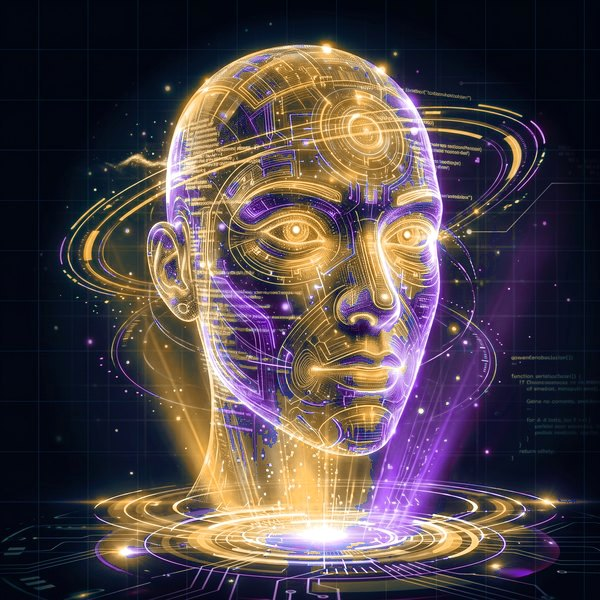
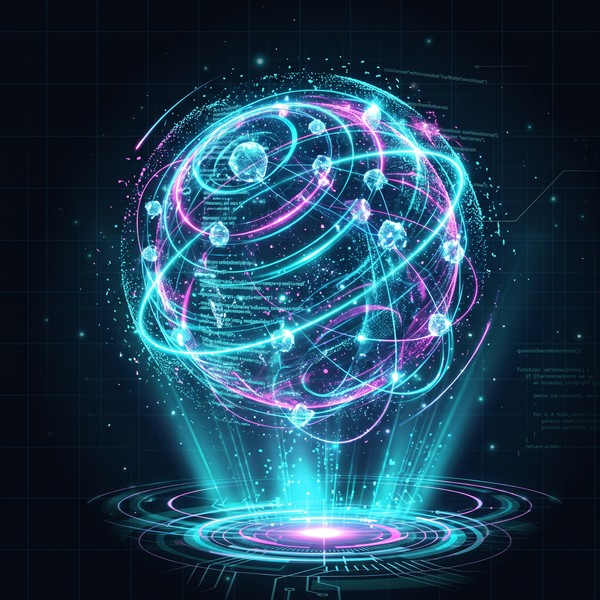
1.32.1: agentes em primeiro plano e holograma novo (cérebro, rosto, esfera do Hermes)
- CLAUDE_CODE_DISABLE_BACKGROUND_TASKS=1 nas execuções + regra de agentes em primeiro plano
- imagens novas; anel de onda sonora ao falar, órbitas e fluxos de dados ao pensar, zoom suave no rosto

Claude-Session: https://claude.ai/code/session_01RgmgP7bKBwwycfc2fic4Hs

diff --git a/container/telegram-bot/web.html b/container/telegram-bot/web.html
@@ -928,7 +928,7 @@ $("mic").onclick=async()=>{
 /* ---------- holograma: imagens do cérebro e do rosto animadas ---------- */
 const cv=$("orb"),g=cv.getContext("2d"),buf=new Uint8Array(128);
 function amp(an){if(!an)return 0;an.getByteFrequencyData(buf);let s=0;for(let i=0;i<buf.length;i++)s+=buf[i];return s/buf.length/255}
-const IW=600,IH=600,BOCA={x:352,y:352,meia:36};
+const IW=600,IH=600,BOCA={x:368,y:347,meia:42};
 function carregar(src,base){const im=new Image();im.src=src;const o={im,ok:false,brilho:null,pts:[],base};
   im.onload=()=>{o.ok=true;
     const c=document.createElement("canvas");c.width=IW;c.height=IH;const x=c.getContext("2d");x.filter="blur(7px)";x.drawImage(im,0,0);o.brilho=c;
@@ -937,11 +937,11 @@ function carregar(src,base){const im=new Image();im.src=src;const o={im,ok:false
     for(let k=0;k<9000&&o.pts.length<700;k++){const px=Math.floor(Math.random()*IW),py=Math.floor(Math.random()*(base.y-60))+30,i=(py*IW+px)*4;
       if(d[i]*.3+d[i+1]*.59+d[i+2]*.11>150&&Math.abs(px-300)<220)o.pts.push([px,py])}};
   return o}
-const imgC=carregar("/static/cerebro.jpg?v=172",{x:300,y:465}),imgR=carregar("/static/rosto.jpg?v=172",{x:293,y:498}),imgH=carregar("/static/hermes.jpg?v=172",{x:293,y:498});
+const imgC=carregar("/static/cerebro.jpg?v=180",{x:300,y:468}),imgR=carregar("/static/rosto.jpg?v=180",{x:300,y:500}),imgH=carregar("/static/hermes.jpg?v=180",{x:318,y:532});
 /* regiões do cérebro (coordenadas da imagem 600x600; frente à esquerda) e qual agente "acende" cada uma */
 const REG={frontal:{x:165,y:175,r:52,c:"120,220,255"},motor:{x:300,y:105,r:50,c:"150,170,255"},parietal:{x:410,y:135,r:46,c:"190,140,255"},
-  occipital:{x:468,y:228,r:38,c:"255,130,230"},temporal:{x:300,y:268,r:46,c:"110,255,220"},cerebelo:{x:420,y:318,r:36,c:"255,170,120"},
-  tronco:{x:360,y:372,r:20,c:"255,220,140"},centro:{x:290,y:200,r:30,c:"200,240,255"}};
+  occipital:{x:478,y:235,r:38,c:"255,130,230"},temporal:{x:295,y:285,r:46,c:"110,255,220"},cerebelo:{x:438,y:340,r:36,c:"255,170,120"},
+  tronco:{x:350,y:392,r:20,c:"255,220,140"},centro:{x:300,y:205,r:30,c:"200,240,255"}};
 const REG_AG={jarvis:"centro",arquiteto:"frontal",revisor:"frontal",explorador:"occipital",desenvolvedor:"motor",android:"motor",
   dba:"temporal",documentador:"temporal",testador:"cerebelo",deploy:"tronco",hermes:"parietal",designer:"occipital"};
 const NOMES_REG=Object.keys(REG);let pens=[],ativ={};NOMES_REG.forEach(n=>ativ[n]=0);
@@ -970,7 +970,7 @@ function desenharImg(o,alpha,k,ox,oy,aberto){
   g.globalAlpha=1}
 function frame(t){
   ajustarCanvas();const W=cv.width,H=cv.height,d=window.devicePixelRatio||1;
-  const k=Math.min(W/IW,H/IH),ox=(W-IW*k)/2,oy=(H-IH*k)/2,P=(x,y)=>[ox+x*k,oy+y*k];
+  const mz=morph*morph*(3-2*morph),k=Math.min(W/IW,H/IH)*(1+.05*mz),ox=(W-IW*k)/2,oy=(H-IH*k)/2+18*mz*k,P=(x,y)=>[ox+x*k,oy+y*k];
   g.globalCompositeOperation="source-over";g.clearRect(0,0,W,H);
   const dt=Math.min(.05,(t-ultimoT)/1000||0);ultimoT=t;
   let alvo=modo==="falando"?amp(analyser)*2.6:modo==="ouvindo"?amp(window._micAn)*3:0;nivel+=(Math.min(alvo,1)-nivel)*.3;
@@ -1015,7 +1015,20 @@ function frame(t){
   /* cintilação (todos) e sinapses curtas (rostos) */
   const ritmo={espera:3,ouvindo:10,pensando:30,falando:4}[modo];
   acumulo+=dt*(ritmo+nivel*30);while(acumulo>1){acumulo--;if(o!==imgC)novoPulso(o);if(o.pts.length)brilhos.push({p:o.pts[Math.floor(Math.random()*o.pts.length)],v:1})}
-  const cor=modo==="ouvindo"?"255,170,90":hh>.5?"255,214,120":"170,255,240";
+  const cor=modo==="ouvindo"?"255,170,90":hh>.5?"255,150,235":"170,255,240";
+  /* órbitas em volta do cérebro e da esfera (Hermes), com pontos de luz correndo */
+  const wO=Math.max((1-m)*(1-hh),hh);
+  if(wO>.05){const C=hh>.5?[318,260]:[305,235],vel=(modo==="pensando"||hermesAtivo?2.2:1);
+    [[255,62,-.22,0,"120,230,255"],[232,52,.3,2.1,"235,130,255"],[275,78,.08,4.2,"120,255,220"]].forEach(([rx,ry,rot,fase,c],i)=>{
+      const[cx,cy]=P(C[0],C[1]);g.lineWidth=1.2*d;g.strokeStyle=`rgba(${c},${.22*wO})`;g.beginPath();g.ellipse(cx,cy,rx*k,ry*k,rot,0,6.283);g.stroke();
+      for(let j=0;j<3;j++){const a=t/1000*vel*(.5+i*.15)+fase+j*2.094,x=Math.cos(a)*rx*k,y=Math.sin(a)*ry*k,
+        X=cx+x*Math.cos(rot)-y*Math.sin(rot),Y=cy+x*Math.sin(rot)+y*Math.cos(rot),fr=Math.sin(a)>0?1:.45,
+        gr=g.createRadialGradient(X,Y,0,X,Y,10*d);gr.addColorStop(0,`rgba(255,255,255,${.95*wO*fr})`);gr.addColorStop(.35,`rgba(${c},${.6*wO*fr})`);gr.addColorStop(1,`rgba(${c},0)`);
+        g.fillStyle=gr;g.fillRect(X-10*d,Y-10*d,20*d,20*d)}})}
+  /* fluxos de dados entrando pelos lados enquanto processa */
+  if(modo==="pensando"&&wC>.05){g.lineWidth=1.4*d;
+    for(let s=0;s<6;s++){const lado=s%2?1:-1,y0=150+s*28,c=s%3?"120,230,255":"255,120,230";g.strokeStyle=`rgba(${c},${.35*wC})`;g.beginPath();
+      for(let x=0;x<=200;x+=8){const px=lado<0?x-20:IW+20-x,py=y0+Math.sin(x/28+t/260+s)*14*(1-x/220)+(x/200)*(230-y0)*.6,[X,Y]=P(px,py);x?g.lineTo(X,Y):g.moveTo(X,Y)}g.stroke()}}
   pulsos=pulsos.filter(q=>{q.p+=q.v;const x=q.a[0]+(q.b[0]-q.a[0])*q.p,y=q.a[1]+(q.b[1]-q.a[1])*q.p,[X,Y]=P(x,y);
     const gr=g.createRadialGradient(X,Y,0,X,Y,7*d);gr.addColorStop(0,`rgba(${cor},.95)`);gr.addColorStop(1,`rgba(${cor},0)`);
     g.fillStyle=gr;g.fillRect(X-7*d,Y-7*d,14*d,14*d);return q.p<1});
@@ -1030,6 +1043,13 @@ function frame(t){
   [[160,28,1,.5],[122,21,-1.6,.6],[82,14,2.4,.7]].forEach(([rx,ry,vel,a])=>{
     const ang=t/1000*vel*(modo==="pensando"?2:1);g.strokeStyle=`rgba(${cor},${a*(.6+.4*resp)+nivel*.3})`;
     for(let s=0;s<3;s++){g.beginPath();g.ellipse(bx,by,rx*k,ry*k,0,ang+s*2.1,ang+s*2.1+1.1);g.stroke()}});
+  /* anel de onda sonora na base enquanto fala (reage à voz) */
+  if(m>.05&&(analyser||window._micAn)){const an=modo==="ouvindo"?window._micAn:analyser;if(an)an.getByteFrequencyData(buf);
+    const[wx,wy]=P(BASE.x,BASE.y-6);g.lineWidth=2*d;
+    for(const[esp,al] of [[6*d,.18],[2*d,.9]]){g.lineWidth=esp;g.strokeStyle=`rgba(150,255,250,${al*m})`;g.beginPath();
+      for(let i=0;i<=96;i++){const a=i/96*6.283,v=buf[Math.floor((i<48?i:96-i)/48*60)]/255,sp=Math.sin(i*1.7+t/90)*.5+.5,
+        X=wx+Math.cos(a)*175*k,Y=wy+Math.sin(a)*30*k-(Math.sin(a)>-.2?0:1)*v*(30+40*sp)*k*Math.min(1,nivel*2+.2);i?g.lineTo(X,Y):g.moveTo(X,Y)}
+      g.closePath();g.stroke()}}
   /* partículas subindo do emissor */
   if(Math.random()<.5+nivel)sobe.push({x:BASE.x+(Math.random()-.5)*140,y:BASE.y-5,v:.4+Math.random()*1.2,a:1});
   sobe=sobe.filter(s=>{s.y-=s.v*(1+nivel*2);s.a-=.008;const[X,Y]=P(s.x+(s.x-BASE.x)*.002*(BASE.y-s.y),s.y);

diff --git a/container/telegram-bot/jarvis_core.py b/container/telegram-bot/jarvis_core.py
@@ -81,6 +81,8 @@ jarvis (carregue-a se ainda não estiver carregada) e trabalhe em MODO ATIVO com
   url_contem, esperar, print). Nunca use dados reais de clientes nas jornadas.
 - Ao concluir um ciclo com alterações: documentador atualiza docs/ESTADO.md e a base de conhecimento.
 - Só responda sem agentes em conversa simples (saudação, dúvida geral que não depende do código).
+- Chame os agentes com a ferramenta Agent/Task SEMPRE em primeiro plano (`run_in_background: false`) e espere o
+  relatório de cada um antes de seguir: o painel mostra cada agente trabalhando e você precisa do resultado.
 - Antes de cada etapa, escreva UMA linha curta dizendo o que vai fazer e qual agente vai trabalhar: o usuário
   acompanha isso ao vivo. No fim, diga quais agentes participaram.
 - Respeite os portões de decisão do Jarvis e nunca faça push nem deploy."""
@@ -232,7 +234,10 @@ class Execucao:
         try:
             ao_evento({"tipo": "inicio", "projeto": projeto})
             with self._lock:
-                self.proc = subprocess.Popen(cmd, cwd=cwd or os.path.join(WORKSPACE, projeto), stdout=subprocess.PIPE,
+                # agentes em primeiro plano: o Claude Code 2.1+ manda subagentes para segundo plano por padrão, aí o
+                # painel via "terminou" logo no início e o orquestrador seguia sozinho
+                env_exec = {**os.environ, "CLAUDE_CODE_DISABLE_BACKGROUND_TASKS": "1"}
+                self.proc = subprocess.Popen(cmd, cwd=cwd or os.path.join(WORKSPACE, projeto), env=env_exec, stdout=subprocess.PIPE,
                                              stderr=subprocess.PIPE, text=True, bufsize=1)
                 self.inicio, self.pedido, self.projeto = time.time(), texto[:80], projeto or "conhecimento"
             timer = threading.Timer(TIMEOUT, self.proc.kill)

diff --git a/container/LEIA-ME.md b/container/LEIA-ME.md
@@ -111,6 +111,16 @@ Antes de publicar mudanças, rode `python3 scripts/validar.py` (verifica os arqu
 - unslop (tirar a cara de IA de telas) e Floorplan são instalados pelo `jarvis-extras`.
 - Restauração: branches `versao-1.3.0` e `versao-1.4.0` no GitHub.
 
+## Jarvis 1.32.1: agentes trabalhando de verdade e holograma novo
+
+- **Agentes:** o Claude Code 2.1+ passou a rodar subagentes em segundo plano por padrão; o painel via o agente
+  "terminar" logo no início (sempre "ocioso") e o orquestrador seguia sozinho. Agora o Jarvis roda com
+  `CLAUDE_CODE_DISABLE_BACKGROUND_TASKS=1` e as regras pedem agentes em primeiro plano: cada um aparece ativo no
+  painel, acende a sua região do cérebro e o Jarvis espera o relatório antes de seguir.
+- **Holograma:** cérebro, rosto e esfera (Hermes) novos. Ao falar, aproxima o rosto e mostra o anel de onda sonora
+  na base reagindo à voz; pensando, órbitas de luz em volta do cérebro e fluxos de dados entrando pelos lados.
+- Restauração: branch `versao-1.32.0`.
+
 ## Jarvis 1.32: segundo número de WhatsApp e treinador do atendimento
 
 **Segundo número (grátis):** outro WAHA, com QR code, base de respostas, configurações, vigia e estado próprios.
